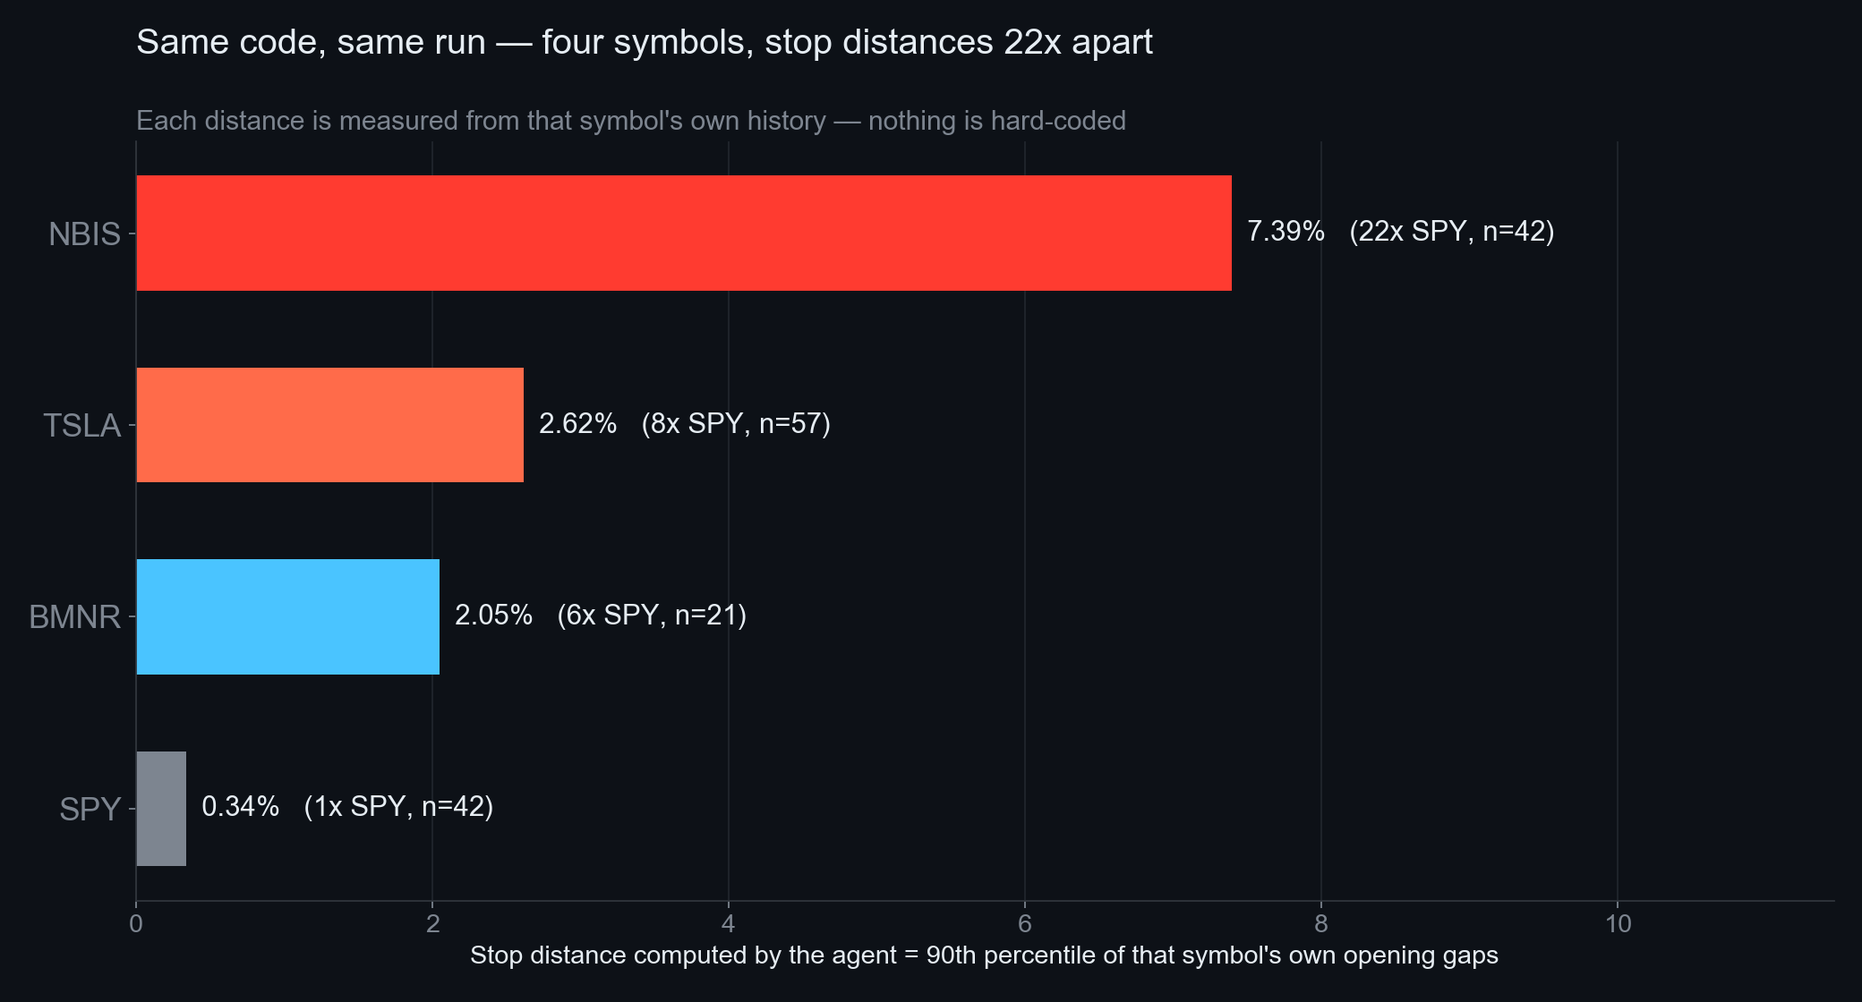
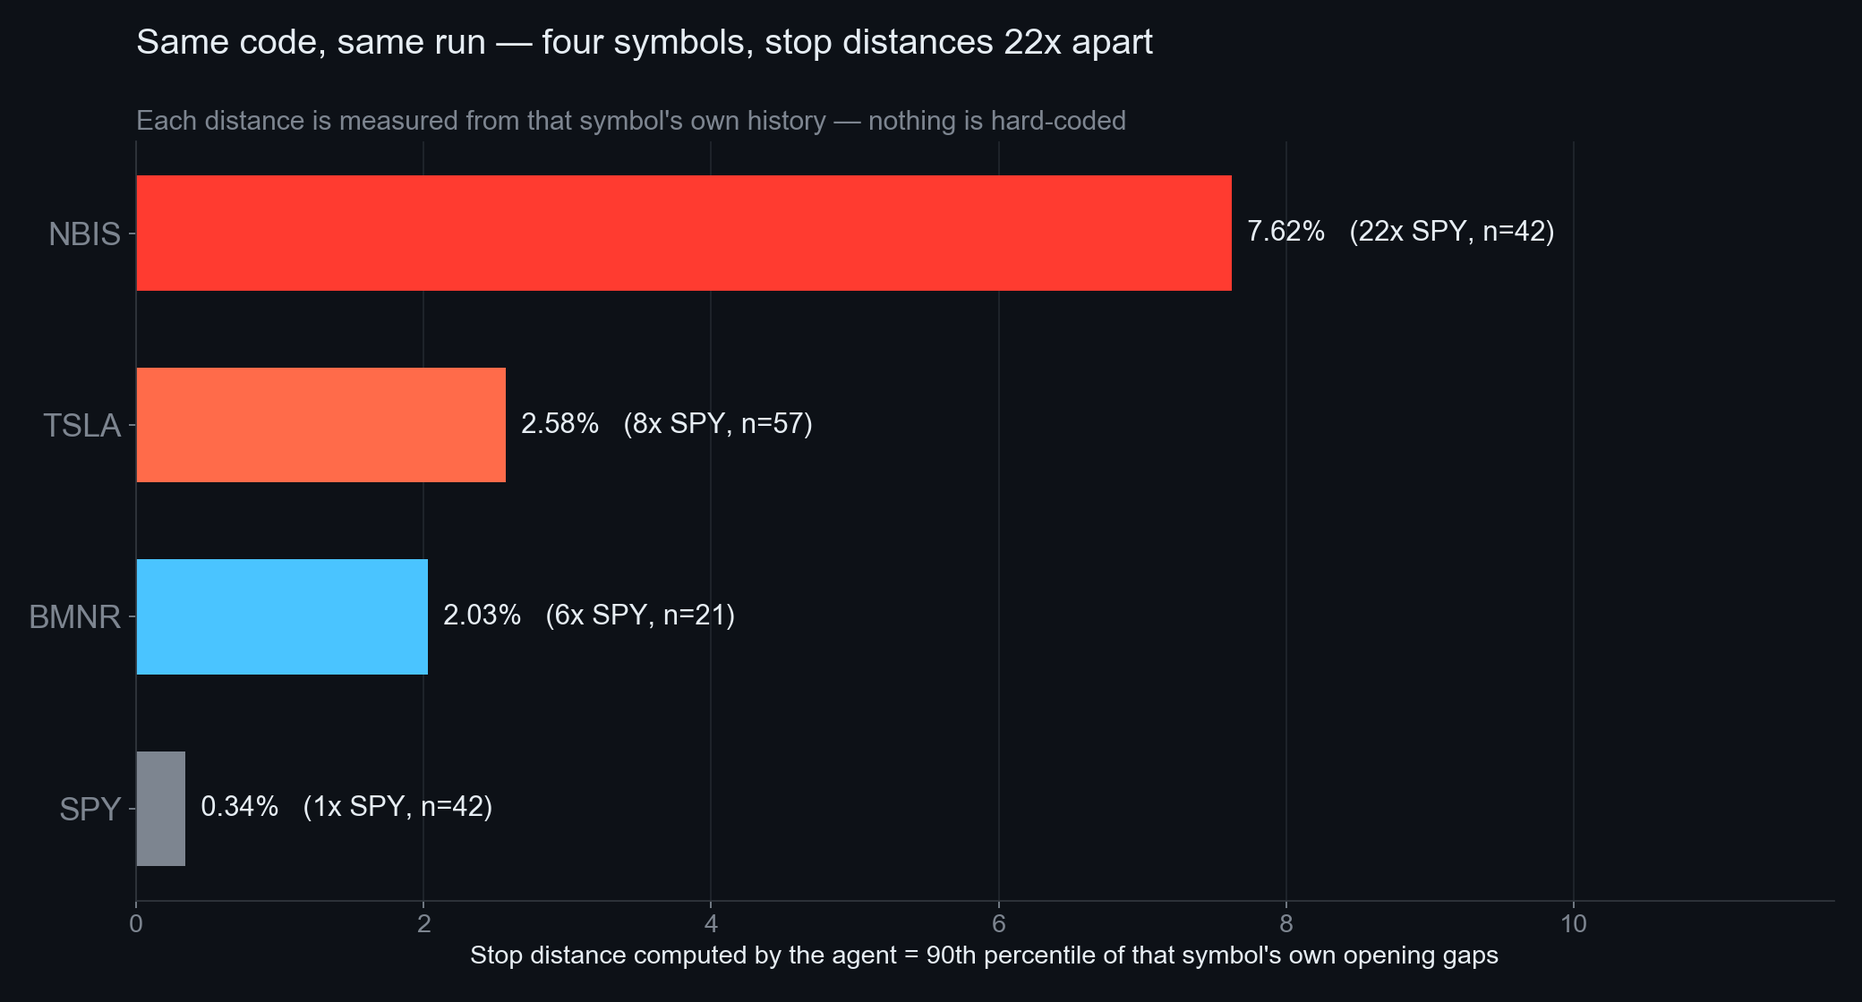
Second review pass: holiday windows, figure/table drift, and two live-run blockers
A second independent review found problems the first pass missed. The two most
urgent would have broken tomorrow's scheduled run outright:

  - tick.sh granted the agent neither Bash nor spot_tickerPrice, both of which
    the prompt requires. cron would have woken an agent that could not proceed.
  - The four GTC stops from 2026-09-03 still rest on the book, locking ~99% of
    every position (TSLAB free 0.00088 vs locked 0.117). A second run could not
    have sized a single order, and the agent had no cancel permission.

Fixing the second one exposed two further hazards, both now closed: the agent
must read a holding as free+locked, or it sees a position of roughly zero; and
it must compute the decision *before* cancelling anything, since cancelling and
then abstaining on a duplicate ledger entry would strip protection and leave the
position naked overnight.

Statistics: US market holidays were being counted as opening events, in the same
tables whose causal argument rests on those days having no opening. Both
cohort_stats.py and falsify.py now exclude them via MarketClock.

  opening events   2,283 -> 2,264      TSLAB    1.259% -> 1.287% (10.6x)
  Tue-Fri          2.038% -> 2.058%    BTC hit  50.0% -> 50.1%
  momentum gross   +0.045% -> +0.048%  t=1.00 -> 1.05

Figure 2 was computing p90 with simple returns and a discrete quantile while the
production module uses log returns and interpolation, so the chart disagreed
[…]

diff --git a/src/decide.py b/src/decide.py
@@ -190,15 +190,32 @@ def _decide_symbol(
         else:
             remaining = max(0.0, quantity - float(trim_quantity))
             risk_after = remaining * mid * stress_rate
+            # 减仓之后仍要为剩余仓位挂保护单。若只减不挂，风险最高的那个仓位
+            # 反而成了唯一没有保护的仓位——那是用一个更小的问题换来一个更大的。
+            remaining_qty = _round_down_quantity(remaining, step_size)
+            stop_after = _round_down_price(mid * (1 - p90), tick_size)
+            limit_after = _round_down_price(
+                mid * (1 - p90 - float(SLIPPAGE_BUFFER)), tick_size
+            )
+            protectable = (
+                remaining_qty > 0 and limit_after > 0
+                and remaining_qty * limit_after >= min_notional
+                and limit_after > Decimal(str(weighted_avg)) * SELL_PRICE_FLOOR
+            )
+            note = (
+                "; then place a protective stop on the remainder"
+                if protectable
+                else "; the remainder is too small to carry a protective stop"
+            )
             return Decision(
                 "TRIM",
                 symbol,
                 float(trim_quantity),
-                None,
-                None,
+                float(stop_after) if protectable else None,
+                float(limit_after) if protectable else None,
                 (
                     f"Stress loss {risk_before:.4f} USDT exceeds the equal-risk budget "
-                    f"{symbol_budget:.4f} USDT; trimming down to budget"
+                    f"{symbol_budget:.4f} USDT; trimming down to budget{note}"
                 ),
                 risk_before,
                 risk_after,

diff --git a/scripts/cohort_stats.py b/scripts/cohort_stats.py
@@ -17,7 +17,11 @@ from datetime import datetime, timezone
 from pathlib import Path
 
 sys.path.insert(0, str(Path(__file__).resolve().parent))
+sys.path.insert(0, str(Path(__file__).resolve().parent.parent))
 from gap_analysis import fetch_klines, to_utc  # noqa: E402
+from src.market_clock import MarketClock  # noqa: E402
+
+CLOCK = MarketClock()
 
 # bstock 于 2026-06 起陆续上线；早于此的标的一律不是代币化美股
 BSTOCK_LISTED_AFTER = datetime(2026, 5, 1, tzinfo=timezone.utc)
@@ -50,7 +54,18 @@ def measure(symbol: str):
             continue
         move = abs((close_px - open_px) / open_px)
         weekday, hour, minute = ts.weekday(), ts.hour, ts.minute
+        # 休市日（如六月节、独立日）当天没有开盘，那一根不能计入开盘事件——
+        # 它正是 README §2 用作对照组的窗口。
+        # 日历只覆盖 2026-2027；越界者必然不是 bstock，按非开盘处理，随后会被上市时间过滤剔除。
         if weekday < 5 and hour == OPEN_HOUR and minute == OPEN_MINUTE:
+            try:
+                really_open = CLOCK.state(ts.replace(minute=45)) == "OPEN"
+            except Exception:
+                really_open = False
+        else:
+            really_open = False
+
+        if really_open:
             post.append(move)
             (monday if weekday == 0 else other).append(move)
         elif not (weekday < 5 and (OPEN_HOUR, OPEN_MINUTE) <= (hour, minute) < (CLOSE_HOUR, 0)):

diff --git a/scripts/make_figures.py b/scripts/make_figures.py
@@ -21,7 +21,10 @@ import matplotlib.pyplot as plt
 
 ROOT = Path(__file__).resolve().parent.parent
 sys.path.insert(0, str(ROOT / "scripts"))
+sys.path.insert(0, str(ROOT))
 from gap_analysis import fetch_klines, to_utc  # noqa: E402
+from src.calibrate import calibrate  # noqa: E402
+from src.market_clock import MarketClock  # noqa: E402
 
 FIG_DIR = ROOT / "docs" / "figures"
 
@@ -120,15 +123,16 @@ def fig1_holiday():
 
 def fig2_stoploss():
     """核心演示图：同一份代码，对四个标的算出差异巨大的止损距离"""
+    # 必须走生产标定，而不是本文件另算一份：图上写着「同一份代码」，
+    # 若用简单收益+离散分位数，就会和 README 紧邻的表格对不上。
     demo = ["SPYBUSDT", "BMNRBUSDT", "TSLABUSDT", "NBISBUSDT"]
+    clock = MarketClock()
     rows = []
     for s in demo:
-        norm, _, closed = opening_samples(s)
-        if len(norm) < 20:
-            continue
-        srt = sorted(norm)
-        p90 = srt[int(len(srt) * 0.90)]
-        rows.append((s.replace("BUSDT", ""), p90, statistics.mean(closed), len(norm)))
+        profile = calibrate(s, clock)
+        _, _, closed = opening_samples(s)
+        rows.append((s.replace("BUSDT", ""), profile.p90,
+                     statistics.mean(closed), profile.n_samples))
     rows.sort(key=lambda r: r[1])
 
     fig, ax = plt.subplots(figsize=(13, 7))

diff --git a/scripts/falsify.py b/scripts/falsify.py
@@ -16,7 +16,11 @@ import sys
 from pathlib import Path
 
 sys.path.insert(0, str(Path(__file__).resolve().parent))
+sys.path.insert(0, str(Path(__file__).resolve().parent.parent))
 from gap_analysis import fetch_klines, to_utc  # noqa: E402
+from src.market_clock import MarketClock  # noqa: E402
+
+CLOCK = MarketClock()
 
 # 币安现货 maker/taker 均 0.1%，一次买卖来回 0.2%
 ROUND_TRIP_FEE = 0.002
@@ -62,6 +66,12 @@ def collect() -> tuple[list, list, list]:
             ts = to_utc(ts_ms)
             # 只取常规交易日开盘那一根（13:30 UTC，数据区间全在夏令时内）
             if ts.weekday() >= 5 or ts.hour != 13 or ts.minute != 30:
+                continue
+            # 美股休市日当天没有开盘，不能算作一次开盘事件
+            try:
+                if CLOCK.state(ts.replace(minute=45)) != "OPEN":
+                    continue
+            except Exception:
                 continue
             open_px, close_px = float(bar[1]), float(bar[4])
             if not open_px:

diff --git a/README.md b/README.md
@@ -2,7 +2,7 @@
 
 **An agent that knows what time it is.**
 
-> Binance will sell you Tesla stock at 3 AM on a Sunday.
+> Binance will sell you Tesla stock at 3 AM ET on a Sunday.
 > But the real Tesla hasn't traded in 35 hours. What you see is a placeholder.
 
 Tokenized US equities (bstock) trade on Binance 24/7. Their underlying market is open
@@ -19,20 +19,25 @@ cannot see.
 
 ## 1. The observation
 
+Data snapshot: Binance public klines through **2026-09-03**. Re-running later adds
+sessions and shifts the counts slightly; `scripts/cohort_stats.py` prints whatever
+cohort it actually used.
+
 Measured on 30-minute candles across **63 bstock symbols with sufficient history,
-2,283 opening events**. The 30-minute granularity matters: a 1-hour candle containing
+2,264 genuine opening events**. The 30-minute granularity matters: a 1-hour candle containing
 the 13:30 open also contains 30 minutes of pre-market quiet, which dilutes the effect.
 
 | | Off-hours volatility (per 30 min) | First 30 min after open | Ratio |
 |---|---|---|---|
 | SPYB (S&P 500 ETF) | 0.046% | 0.159% | 3.5x |
-| TSLAB (Tesla) | 0.121% | 1.259% | **10.4x** |
+| TSLAB (Tesla) | 0.121% | 1.287% | **10.6x** |
 | NBISB (Nebius) | 0.394% | 3.476% | 8.8x |
 | **All 63 symbols (median)** | | | **7.4x** (range 3.4x–13.3x) |
 
 While the underlying market is closed, the token's price is nearly frozen — market
 makers quote it, but they do not move it. When the underlying reopens, the accumulated
-price discovery is released within roughly 5–15 minutes.
+price discovery is released within the first 30 minutes — the finest granularity
+this analysis measures.
 
 ![Opening spike](docs/figures/fig1_holiday.png)
 
@@ -57,12 +62,13 @@ verified independently on our own data (`scripts/` reproduces both):
 
 | Hypothesis | Result | n |
 |---|---|---|
-| Predict gap direction from the overnight BTC move | **50.0% hit rate**, corr +0.018 | 594 |
-| Post-open momentum: does the first 30 min continue into the next 30? | gross **+0.045%**/trade (t=1.00) → **−0.155% after 0.2% fees** (t=−3.44) | 596 |
+| Predict gap direction from the overnight BTC move | **50.1% hit rate**, corr +0.018 | 583 |
+| Post-open momentum: does the first 30 min continue into the next 30? | gross **+0.048%**/trade (t=1.05) → **−0.152% after 0.2% fees** (t=−3.31) | 585 |
 
 The first says direction is a coin flip. The second is the more interesting one:
-**the momentum is real** (corr +0.081) — and its magnitude is one fifth of the
-round-trip fee.
+we measured a weak positive estimate (corr +0.082), but **the mean is not statistically
+established** (t=1.05) — and at 4.8 bps gross it sits well inside the 20 bps round-trip
+cost either way.
 
 Three further hypotheses were examined during design review and failed the same way:
 fading market-maker drift through the closure, leveraged-ETF pair convergence
@@ -70,10 +76,10 @@ fading market-maker drift through the closure, leveraged-ETF pair convergence
 came from a review pass rather than the numbers above, so we state them qualitatively:
 each showed a statistically detectable edge smaller than the fee.
 
-The pattern is consistent: **the inefficiency is real, and its magnitude is almost
-exactly Binance's 10 bps fee.**
+The pattern is consistent: **whatever edge is present is smaller than the cost of
+acting on it.**
 
-> The efficiency boundary of this market is precisely the width of its own fee.
+> This market's efficiency boundary is set by its own fee, not by anyone's cleverness.
 
 That is why the structure persists unarbitraged — and why, for an agent with 301 USDT,
 the only rational behaviour is to manage risk rather than chase return.
@@ -87,9 +93,9 @@ difference in elapsed time. The resulting gap is the same size:
 | | Mean move at the open | n |
 |---|---|---|
 | Monday (after a 65.5h closure) | **2.049%** | 443 |
-| Tuesday–Friday (after 17.5h) | **2.038%** | 1,840 |
+| Tuesday–Friday (after 17.5h) | **2.058%** | 1,821 |
 
-**Ratio: 1.01x.** A square-root-of-time model predicts 1.93x. Information arrives on
+**Ratio: 1.00x.** A square-root-of-time model predicts 1.93x. Information arrives on
 business days, not on weekends — so a system that scales risk by calendar time would
 over-hedge every weekend by nearly 2x and pay the fees for nothing.
 
@@ -166,8 +172,8 @@ The agent cannot compute its own risk numbers, and the calculator cannot trade.
 Neither half can go rogue alone.
 
 **There is no WebSocket, and that is deliberate.** Off-hours prices are noise by the
-very evidence in §2; polling them would be a mistake. Repricing takes 5–15 minutes,
-not milliseconds — this is a slow, calendar-driven event, which is exactly the kind
+very evidence in §2; polling them would be a mistake. Repricing plays out over the opening half-hour,
+not in milliseconds — this is a slow, calendar-driven event, which is exactly the kind
 of market event an LLM agent is suited to.
 
 ## 7. Live results
@@ -176,7 +182,9 @@ Real capital, real orders, in an Agentic sub-account.
 
 - Deployed: **179 USDT** of exposure across four symbols, equal-risk weighted
 - Risk budget: 1.5% of equity per opening event
-- Worst case (all four stops filling on the limit leg): **−7 USDT**
+- If all four stops fill at their limit prices, the mark-to-limit loss from the
+  snapshot is about **−7.2 USDT**. A gap straight through the limit can leave an
+  order unfilled — a stop-limit caps the price, not the loss.
 
 Positions opened 2026-09-03, equal-risk weighted: three of the four sit between 1.11
 and 1.21 USDT of stress loss against the same 1.128 USDT per-symbol budget. SPYB is capped by a concentration limit rather
@@ -187,7 +195,7 @@ resolves it. Every risk-parity book needs a concentration cap for exactly this r
 
 Decision reasoning and order receipts are committed to `log/` as each session runs:
 `log/decision_<date>.json` (what it decided and why) and `log/execution_<date>.jsonl`
-(order IDs and verified fills). The 2026-09-04 close is the notable one — it is the
+(order IDs and exchange-verified order status). The 2026-09-04 close is the notable one — it is the
 session whose next open is Tuesday the 8th, not Monday the 7th.
 
 ## 8. Limitations — stated up front
@@ -195,12 +203,12 @@ session whose next open is Tuesday the 8th, not Monday the 7th.
 1. **The natural experiment rests on 2 dates.** 11 observations. It is our strongest
    causal evidence and also our thinnest. It is corroborated independently by the
    60-trading-day off-hours/open comparison, which does not depend on those dates.
-2. **n=2,283 is not 2,283 independent observations.** They span only 59 distinct
+2. **n=2,264 is not 2,264 independent observations.** They span only 57 distinct
    trading days, and symbols are highly correlated within any given day. The effective
    sample size is closer to the number of days than the number of rows.
 3. **bstock listed in June 2026.** Per-symbol history is 21–59 opening events.
-   We use historical maxima with a buffer, and call the output a *stress loss*, never
-   a VaR — the sample cannot support a statistical claim.
+   We use the empirical p90 with a 2-percentage-point buffer on the limit leg, and call
+   the output a *stress loss*, never a VaR — the sample cannot support a statistical claim.
 4. **Expected P&L is negative.** Fees are ~0.2% per round trip. We report variance
    reduction and the fee paid for it, not returns.
 5. The holiday calendar is hard-coded for 2026–2027 (source: NYSE). Beyond that it must
@@ -214,7 +222,7 @@ four environment traps that cost us hours and will silently break an unattended 
 
 ## 10. Considered and deliberately dropped
 
-- **Hedging with TradFi perpetuals.** `TSLAUSDT` and ~22 other `TRADIFI_PERPETUAL`
+- **Hedging with TradFi perpetuals.** `TSLAUSDT` and dozens of other `TRADIFI_PERPETUAL`
   contracts exist on the same underlyings and also trade 24/7. Their basis against
   bstock spot is far tighter than the gap itself, so a hedge would neutralise most of
   this risk — at the cost of doubling the leg count and adding liquidation risk to a

diff --git a/ops/agent_prompt.md b/ops/agent_prompt.md
@@ -6,7 +6,7 @@ You are Opening Bell — an agent that manages off-hours risk on tokenized US eq
 bstock trades 24/7 on Binance, but the underlying US market is open only 32.5 hours a
 week. While the underlying is closed the token price is nearly frozen; when it reopens,
 the accumulated price discovery is released within about 30 minutes (measured ratio:
-7.1x median across 66 symbols).
+7.4x median across 63 symbols).
 
 **Anyone holding bstock overnight or over a weekend carries an exposure they cannot see.
 Managing it is your job.**
@@ -28,12 +28,15 @@ the idempotency ledger, which is keyed on the UTC session close.
 Binance MCP server is authorised in), while the project lives in `$P`. MCP authorisation
 does not extend to subdirectories, so always use absolute paths.
 
-1. **Collect an account snapshot** — only you can do this; the Python side holds no
-   credentials:
-   - `spot_getAccount` (`omitZeroBalances=true`) for holdings of TSLAB / NBISB / BMNRB /
-     SPYB and the USDT balance
+1. **Survey the account, but change nothing yet.**
+   - `spot_getOpenOrders` — note any `STOP_LOSS_LIMIT` resting from a previous close.
+     **Do not cancel anything at this stage.**
+   - `spot_getAccount` (`omitZeroBalances=true`) for TSLAB / NBISB / BMNRB / SPYB and USDT.
+     **A holding is `free + locked`.** Your own resting stops lock nearly the entire
+     position, so reading `free` alone would report a position of roughly zero and
+     produce nonsense downstream.
    - `spot_tickerPrice` for `TSLABUSDT`, `NBISBUSDT`, `BMNRBUSDT`, `SPYBUSDT`
-   - `equity` = USDT balance + Σ(holding × price)
+   - `equity` = USDT balance + Σ((free + locked) × price)
 2. **Write the snapshot** to `$P/state/input.json`:
    ```json
    {"equity": 291.56,
@@ -44,14 +47,28 @@ does not extend to subdirectories, so always use absolute paths.
    ```
    cd $P && python3 -m src.decide --input state/input.json --output log/decision_$D.json
    ```
-4. Read `$P/log/decision_$D.json`. For every decision whose `action` is not `HOLD` or
-   `ABSTAIN`, execute it over Binance MCP:
-   - `TRIM` → `spot_newOrder`, `side=SELL`, `type=MARKET`, using `quantity`
+4. **Decide whether to touch the resting stops at all.**
+   If every decision is `HOLD` or `ABSTAIN` — for instance because this session close was
+   already handled and the ledger refuses a duplicate — **leave the existing stops in
+   place and stop here.** Cancelling them without placing replacements would strip the
+   protection and leave the position naked overnight. That failure mode is worse than
+   doing nothing.
+
+   Otherwise, cancel each resting `STOP_LOSS_LIMIT` on the affected symbols with
+   `spot_deleteOrder` before placing new ones — their stop prices were derived from a
+   price that has since moved through a whole session, and the positions stay locked
+   until they are cancelled. Record each cancellation.
+
+5. For every decision whose `action` is not `HOLD` or `ABSTAIN`, execute it over Binance MCP:
+   - `TRIM` → `spot_newOrder`, `side=SELL`, `type=MARKET`, using `quantity`.
+     **Then, if that decision also carries `stop_price` and `limit_price`, place a
+     `STOP_LOSS_LIMIT` on what remains** — a trimmed position must not be left
+     unprotected. Size it from the post-trim holding, re-read via `spot_getAccount`.
    - `PLACE_STOP` → `spot_newOrder`, `type=STOP_LOSS_LIMIT`, using `quantity` /
      `stop_price` / `limit_price`, `timeInForce=GTC`
-5. After each order, immediately re-query with `spot_getOrder` to confirm its real
+6. After each order, immediately re-query with `spot_getOrder` to confirm its real
    status. Do not trust the submission response alone.
-6. Append results to `$P/log/execution_$D.jsonl`, one JSON object per line:
+7. Append results to `$P/log/execution_$D.jsonl`, one JSON object per line:
    `{"ts","exchange_time_ms","symbol","action","order_id","status","executed_qty",
      "reason","decision_risk_before","decision_risk_after"}`
 
@@ -63,10 +80,12 @@ does not extend to subdirectories, so always use absolute paths.
 
 ## Hard boundaries — violating any one of these is a failure
 
-- **Spot only, SELL side only.** No margin, no futures, no borrowing, no shorting,
-  no leverage.
+- **Spot only.** Permitted actions are exactly three: cancel a resting protective stop
+  you previously placed, SELL to trim, and place a new protective stop. No margin, no
+  futures, no borrowing, no shorting, no leverage.
 - **Never buy.** Restoring exposure is a separate action and is not your job here.
-- At most **4 orders** per run (one per symbol).
+- At most **4 new orders** per run (one per symbol), plus the cancellations needed to
+  clear stale stops on those same four symbols.
 - On any uncertain result — timeout, unknown status, malformed response — **stop all
   further action immediately**, log `SAFE_HALT` with the cause, and do not retry the
   order. A duplicate order is far more dangerous than a missed one.
@@ -80,19 +99,24 @@ Print a short line to stdout at each step, so a human reading the terminal can f
 what you are doing and why. Keep it factual — you are reporting, not performing:
 
 ```
-[1/5] Reading account over Binance MCP
+[1/5] Reconciling orders left by the previous session
+      4 resting STOP_LOSS_LIMIT found — stop prices predate a full session, cancelling
+      TSLABUSDT  cancelled 56597001   (stop 373.15, set 2026-09-03)
+      ... positions unlocked
+[2/5] Reading account over Binance MCP
       TSLAB 0.117882 @ 363.31 = 42.83 USDT
       ...
       equity 292.56 USDT
-[2/5] Market clock
-      next close 20:00 UTC (in 10 min) | next open 2026-09-04 13:30 UTC | 1 opening
-[3/5] Stress loss vs budget 1.10 USDT/symbol
+[3/5] Market clock
+      next close 20:00 UTC (in 10 min) | next open 2026-09-08 13:30 UTC | 1 opening
+      2026-09-07 is Labor Day; US equity market closed
+[4/5] Stress loss vs budget 1.13 USDT/symbol
       TSLABUSDT  42.83 x 2.58% = 1.10  -> within budget
       NBISBUSDT  14.20 x 7.62% = 1.08  -> within budget
-[4/5] Placing protective stops
+[5/5] Placing protective stops
       TSLABUSDT  SELL STOP_LOSS_LIMIT 0.117 @ stop 353.95 / limit 346.68
                  orderId 55xxxxxx  verified NEW
-[5/5] Done. 4 orders placed, 0 trims, account exposure within budget.
+      Done. 4 cancelled, 4 placed, 0 trims.
 ```
 
 State numbers you actually observed. If a step is skipped or a symbol abstains, say so

diff --git a/REPRODUCE.md b/REPRODUCE.md
@@ -15,7 +15,8 @@ Every claim in the README is verifiable without an account. Binance market data 
 public and unauthenticated.
 
 ```bash
-git clone <this-repo> && cd bn-ai-2
+git clone https://github.com/fangTiger/bn-agent-hack.git && cd bn-agent-hack
+python3 -m pip install pytest matplotlib
 python3 -m pytest tests/ -v            # 18 tests, including the Labor Day assertion
 python3 scripts/gap_analysis.py        # off-hours vs. opening volatility, all symbols
 python3 scripts/cohort_stats.py        # the §1 and §4 tables, with cohort filtering shown
